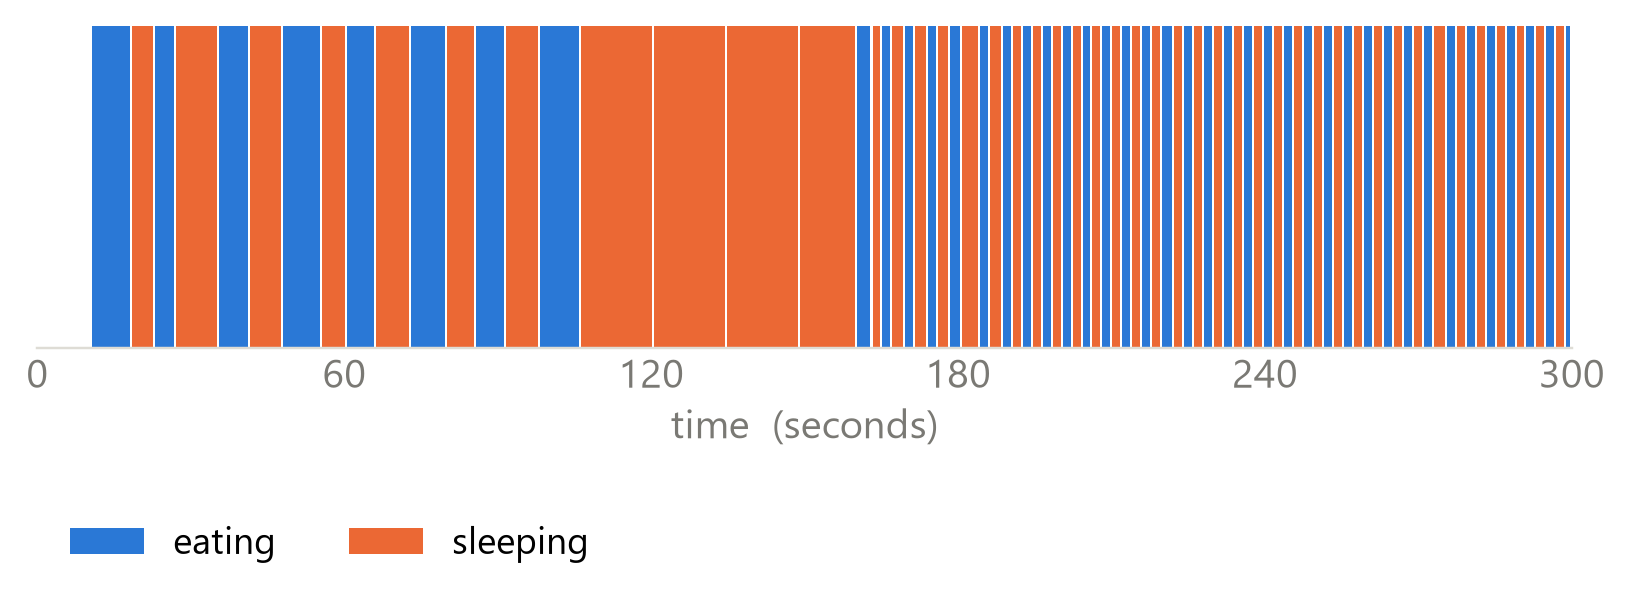
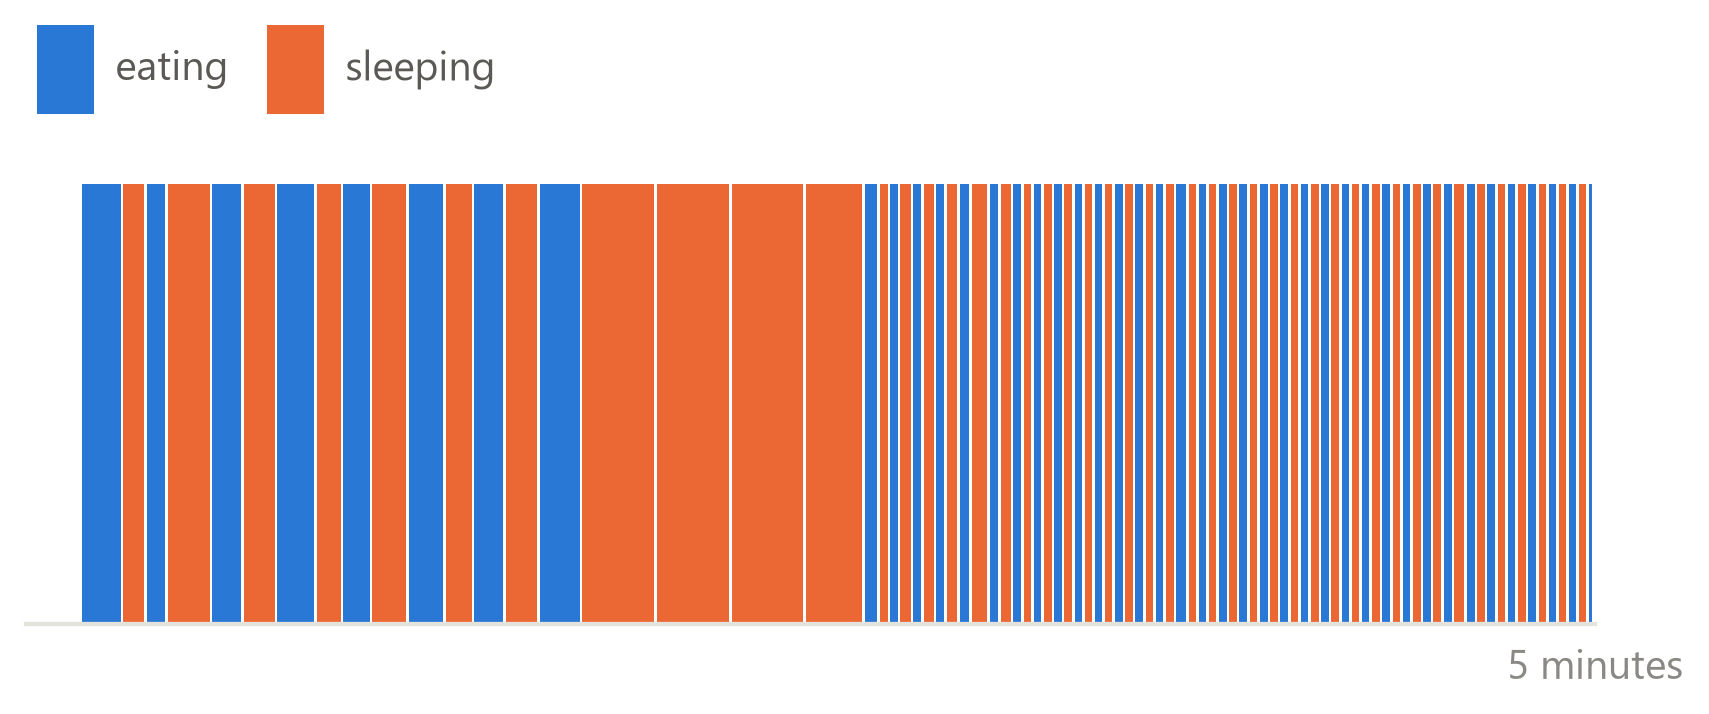
Redraw the oscillation figure to the same standard
Taller bar so it reads from the back of a room, an inline legend with no
frame, and an axis that says "5 minutes" instead of counting out seconds
nobody needs. The shape of the run now carries itself: wide alternating
blocks, one long sleep while the fridge is gone, then shredded once it
comes back.

This is the last figure the five-minute talk needs. The rest are for the
detailed deck, which the advisor asked for only if it exists.

diff --git a/make_slide_figures.py b/make_slide_figures.py
@@ -106,27 +106,40 @@ def curve(xs):
 
 # =========================================================== 1. the problem
 def slide_problem():
-    """One claim: it abandoned most of what it started."""
+    """One claim: it dropped most of what it started.
+
+    A taller bar reads better from the back of a room, and the axis says
+    "5 minutes" rather than counting seconds nobody needs.
+    """
     # the 81% run: outage, linear, no inertia, seed 2
     path = best_file("outage_linear_noinertia_s02")
     d = pd.read_csv(path)
     d = d[d.agent == "Utility"].sort_values("time_s").reset_index(drop=True)
 
-    fig, ax = plt.subplots(figsize=(9.0, 1.9))
+    fig, ax = plt.subplots(figsize=(9.2, 2.6))
     for i, r in d.iterrows():
         t0 = r.time_s
         t1 = d.time_s.iloc[i + 1] if i + 1 < len(d) else 300.0
-        ax.add_patch(Rectangle((t0, 0), max(t1 - t0 - 0.4, 0.3), 1,
+        ax.add_patch(Rectangle((t0, 0), max(t1 - t0 - 0.5, 0.35), 1,
                                facecolor=ACCENT if r.to_action == "Eat" else ORANGE,
                                edgecolor="none"))
-    ax.set_xlim(0, 300); ax.set_ylim(0, 1); ax.set_yticks([])
-    ax.set_xticks(range(0, 301, 60))
-    ax.set_xlabel("time  (seconds)", color="#7a7974")
-    bare(ax)
-    handles = [Rectangle((0, 0), 1, 1, facecolor=ACCENT),
-               Rectangle((0, 0), 1, 1, facecolor=ORANGE)]
-    ax.legend(handles, ["eating", "sleeping"], loc="upper left",
-              bbox_to_anchor=(0, -0.45), ncol=2, fontsize=12)
+
+    # legend as two inline swatches above the bar, no box, no frame
+    for x, col, lab in [(2, ACCENT, "eating"), (46, ORANGE, "sleeping")]:
+        ax.add_patch(Rectangle((x, 1.16), 11, 0.20, facecolor=col,
+                               edgecolor="none", clip_on=False))
+        ax.text(x + 15, 1.26, lab, va="center", fontsize=13.5, color="#5a5955")
+
+    ax.set_xlim(0, 300)
+    ax.set_ylim(0, 1)
+    ax.set_yticks([])
+    ax.set_xticks([0, 300])
+    ax.set_xticklabels(["", "5 minutes"], fontsize=13.5, color="#8a8884")
+    for sp in ("top", "right", "left"):
+        ax.spines[sp].set_visible(False)
+    ax.spines["bottom"].set_color("#e4e2dc")
+    ax.spines["bottom"].set_linewidth(1.4)
+    ax.tick_params(length=0, pad=8)
     save(fig, "slide_problem.png")
 
 
